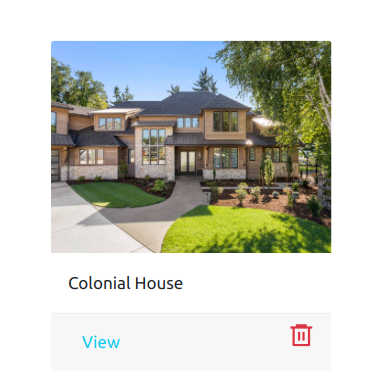
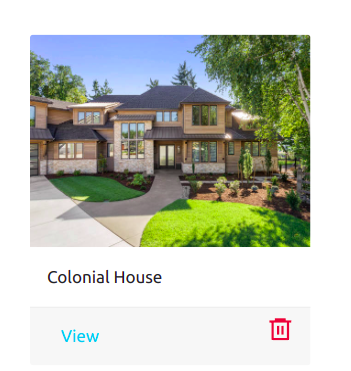
Update card images

diff --git a/index.html b/index.html
@@ -158,7 +158,7 @@
                     </div>
                 </div>
                 <div class="cards">
-                    <div class="professional professional3">
+                    <div class="professional professional0">
                         <div class="liston-button-cn">
                             <button class="liston-button project-button2" type="button">See Project</button>
                         </div>
@@ -172,10 +172,10 @@
                     <div class="professional professional3 click-card">
                         <button class="liston-button remove-button project-button2" type="button">See Project</button>
                     </div>
-                    <div class="professional professional1 click-card">
+                    <div class="professional professional4 click-card">
                         <button class="liston-button remove-button project-button2" type="button">See Project</button>
                     </div>
-                    <div class="professional professional2 click-card">
+                    <div class="professional professional5 click-card">
                         <button class="liston-button remove-button project-button2" type="button">See Project</button>
                     </div>
                 </div>

diff --git a/style.css b/style.css
@@ -412,8 +412,6 @@ p {
   display: flex;
   flex-direction: column;
   justify-content: flex-end;
-  background-image: url(img/placeholder.png);
-  background-repeat: no-repeat;
   height: 400px;
   width: 100%;
 }
@@ -477,24 +475,6 @@ p {
   justify-content: space-around;
   padding-left: 5%;
 }
-
-/* .professional-h1 {
-  display: flex;
-  font-family: 'Crete Round', serif;
-  font-size: 35px;
-  line-height: 44px;
-  color: #fff;
-  width: 100%;
-}
-
-.professional-p {
-  display: flex;
-  justify-content: center;
-  font-family: 'Inter', sans-serif;
-  font-size: 16px;
-  line-height: 24px;
-  color: #fff;
-} */
 
 .professional-btn:enabled {
   background: #f55800;
@@ -1278,6 +1258,11 @@ textarea {
     width: auto;
   }
 
+  .professional0 {
+    background-image: url(img/);
+    background-repeat: no-repeat;
+  }
+
   .professional1 {
     background-image: url(img/budget.png);
     background-repeat: no-repeat;
@@ -1290,6 +1275,16 @@ textarea {
 
   .professional3 {
     background-image: url(img/apartment1.png);
+    background-repeat: no-repeat;
+  }
+
+  .professional4 {
+    background-image: url(img/);
+    background-repeat: no-repeat;
+  }
+
+  .professional5 {
+    background-image: url(img/);
     background-repeat: no-repeat;
   }
 
